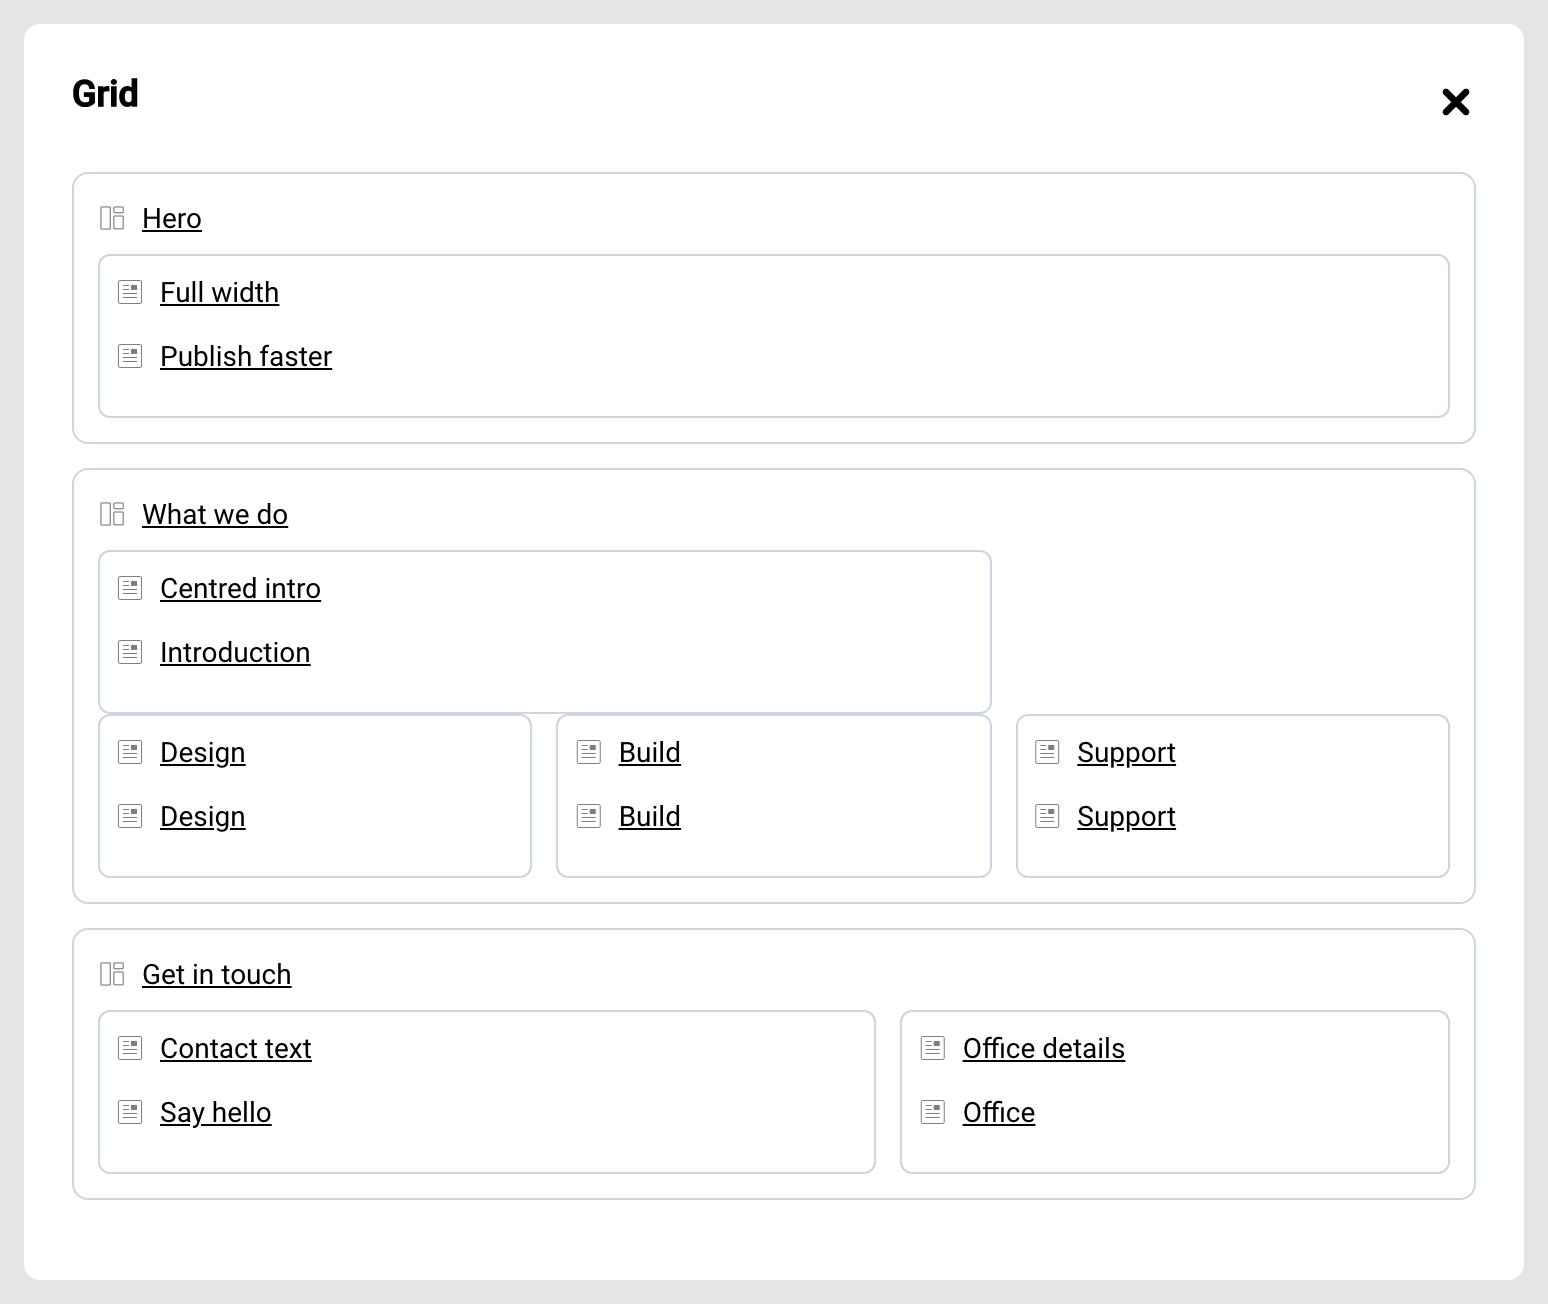
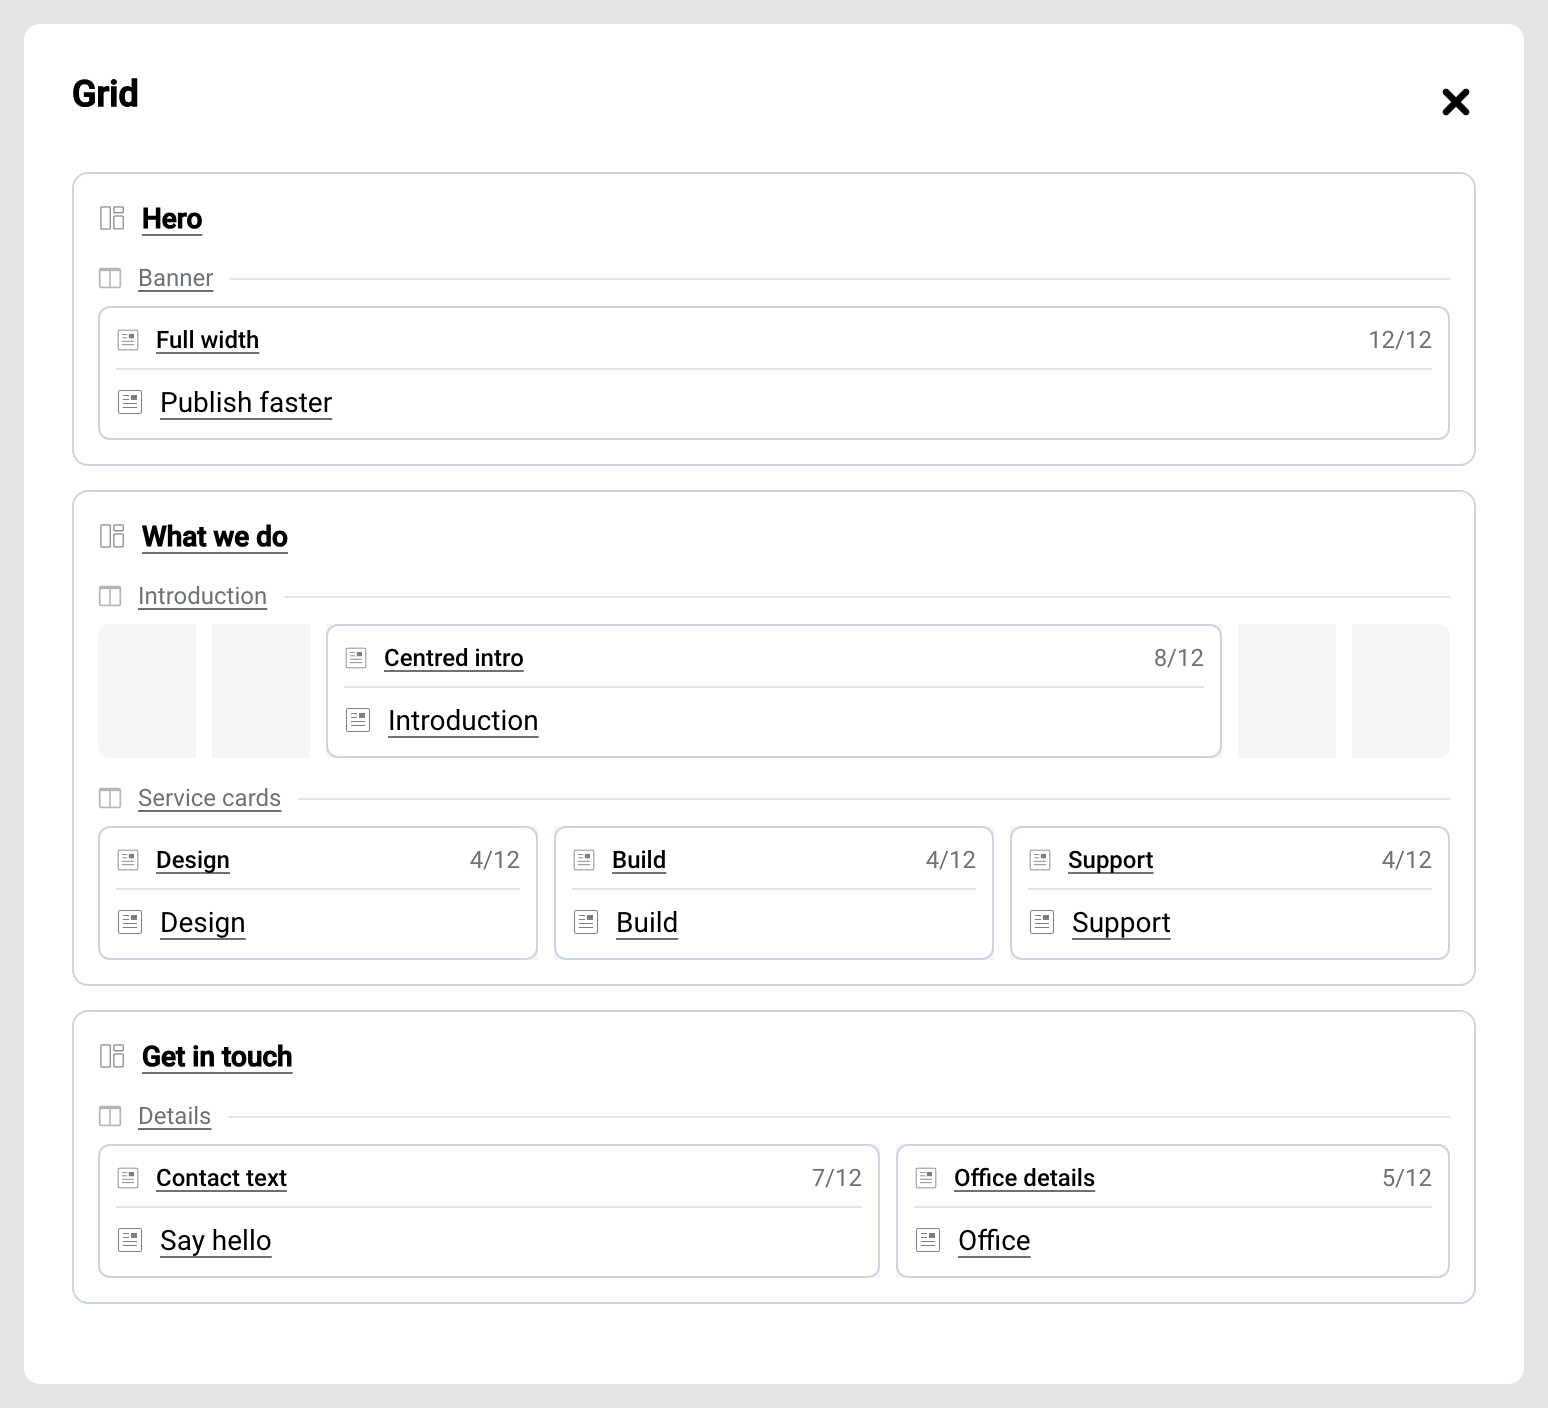
WDVLP-651, Update the Grid menu screenshot and docs for column offsets

diff --git a/docs/usage/templates.md b/docs/usage/templates.md
@@ -205,9 +205,11 @@ The include handles image/video discrimination, aspect-ratio wrapping, captions,
 
 ## Admin toolbar menu
 
-With [`wedevelopnl/silverstripe-admintoolbar`](https://packagist.org/packages/wedevelopnl/silverstripe-admintoolbar) installed, the front-end toolbar gains a **Grid** menu. It maps the current page's grid zone by zone — sections, rows, columns drawn at their default widths, content elements and shared-block placements — with a link to each item's editor. A placement is one item and links to its block in the shared-block library.
+With [`wedevelopnl/silverstripe-admintoolbar`](https://packagist.org/packages/wedevelopnl/silverstripe-admintoolbar) installed, the front-end toolbar gains a **Grid** menu. It maps the current page's grid zone by zone — sections, rows, columns, content elements and shared-block placements — with a link to each item's editor. A placement is one item and links to its block in the shared-block library.
 
-![The toolbar's Grid menu open on a page with three sections: "Hero" with one full-width column, "What we do" with an 8-of-12 intro column above three equal card columns, and "Get in touch" split 7 and 5 — each section, column and content element a link to its editor](../images/admin-toolbar-grid-menu.png)
+![The toolbar's Grid menu open on a page with three sections: "Hero" with one full-width column, "What we do" with an 8-of-12 intro column offset by two tracks above three equal card columns, and "Get in touch" split 7 and 5 — each row named above its faint 12-track ruler, each column headed with its span, and each section, row, column and content element a link to its editor](../images/admin-toolbar-grid-menu.png)
+
+- Columns are laid out as at the **default viewport**: on their row's tracks, at their width and offset, with the span (`8/12`) in the column's header. Per-viewport overrides are not shown. A column hidden at the default viewport is drawn dashed and faded and marked `hidden`.
 
 - Nothing to configure: the toolbar discovers the menu on its own. Render `$AdminToolbar` in your page template as the toolbar's README describes. Without the toolbar the module needs nothing and the menu simply does not exist.
 - The menu shows only to members the toolbar shows itself to, and only on pages that use the grid by the same rule the CMS editor applies: always, unless the page type enables the [editor toggle](#per-page-editor-toggle) and `UseGrid` is off. It is left out when the member can view no element on the page.

diff --git a/CHANGELOG.md b/CHANGELOG.md
@@ -7,6 +7,10 @@ and this project adheres to [Semantic Versioning](https://semver.org/spec/v2.0.0
 
 ## [Unreleased]
 
+### Fixed
+
+- **The toolbar's Grid menu drew every column flush left** — it passed only a column's default width to the template, so an offset column (an 8/12 intro offset by 2, say) sat on the first track, and a column hidden at the default viewport looked like any other. Columns now sit on their row's tracks at their width and offset, wrapping with their offset as on the front end; each row draws its tracks as faint stripes so skipped and unused tracks read as such, and a hidden column is drawn dashed and faded and marked `hidden`. The menu also names each row (with its edit link, previously dropped), heads each column with its span (`8/12`) so its title no longer reads as its first element, and tags shared-block placements. New translation keys: `GridMenu.HIDDEN`, `GridMenu.SHARED`, `GridMenu.SPAN`.
+
 ## [6.0.0-beta.5] - 2026-10-06
 
 The headline is the **zone invariant**: a grid element's `Zone` must now be set exactly when it sits directly on a page, and existing installs need a one-time repair task before pages with older rows can be published again. Alongside it come a media-only content block and a Grid menu for the front-end admin toolbar.
